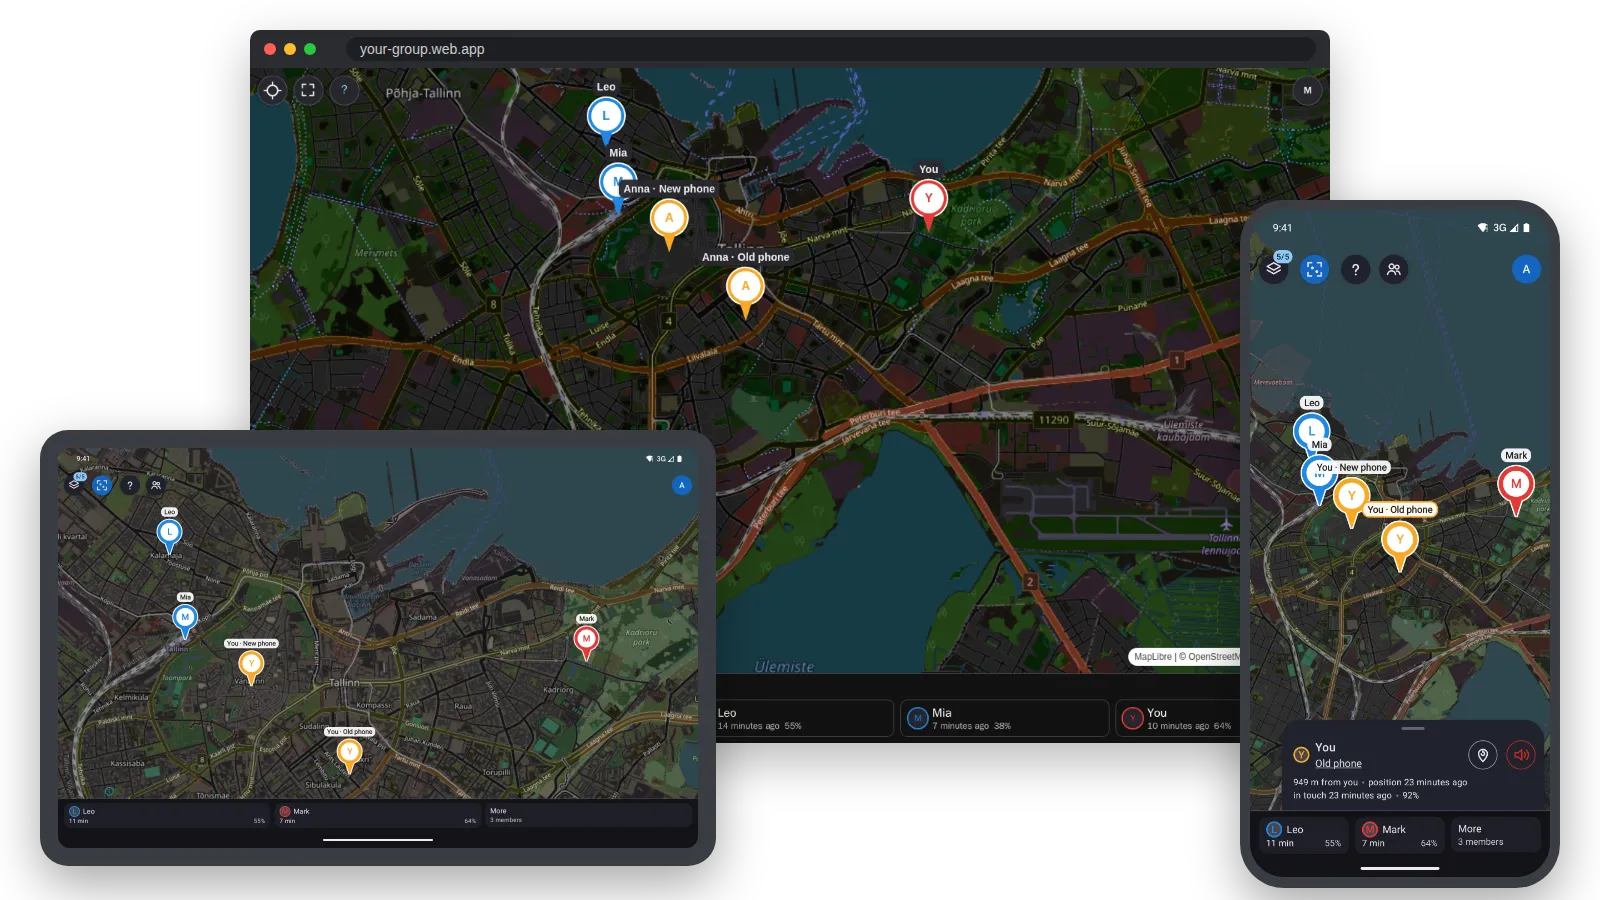
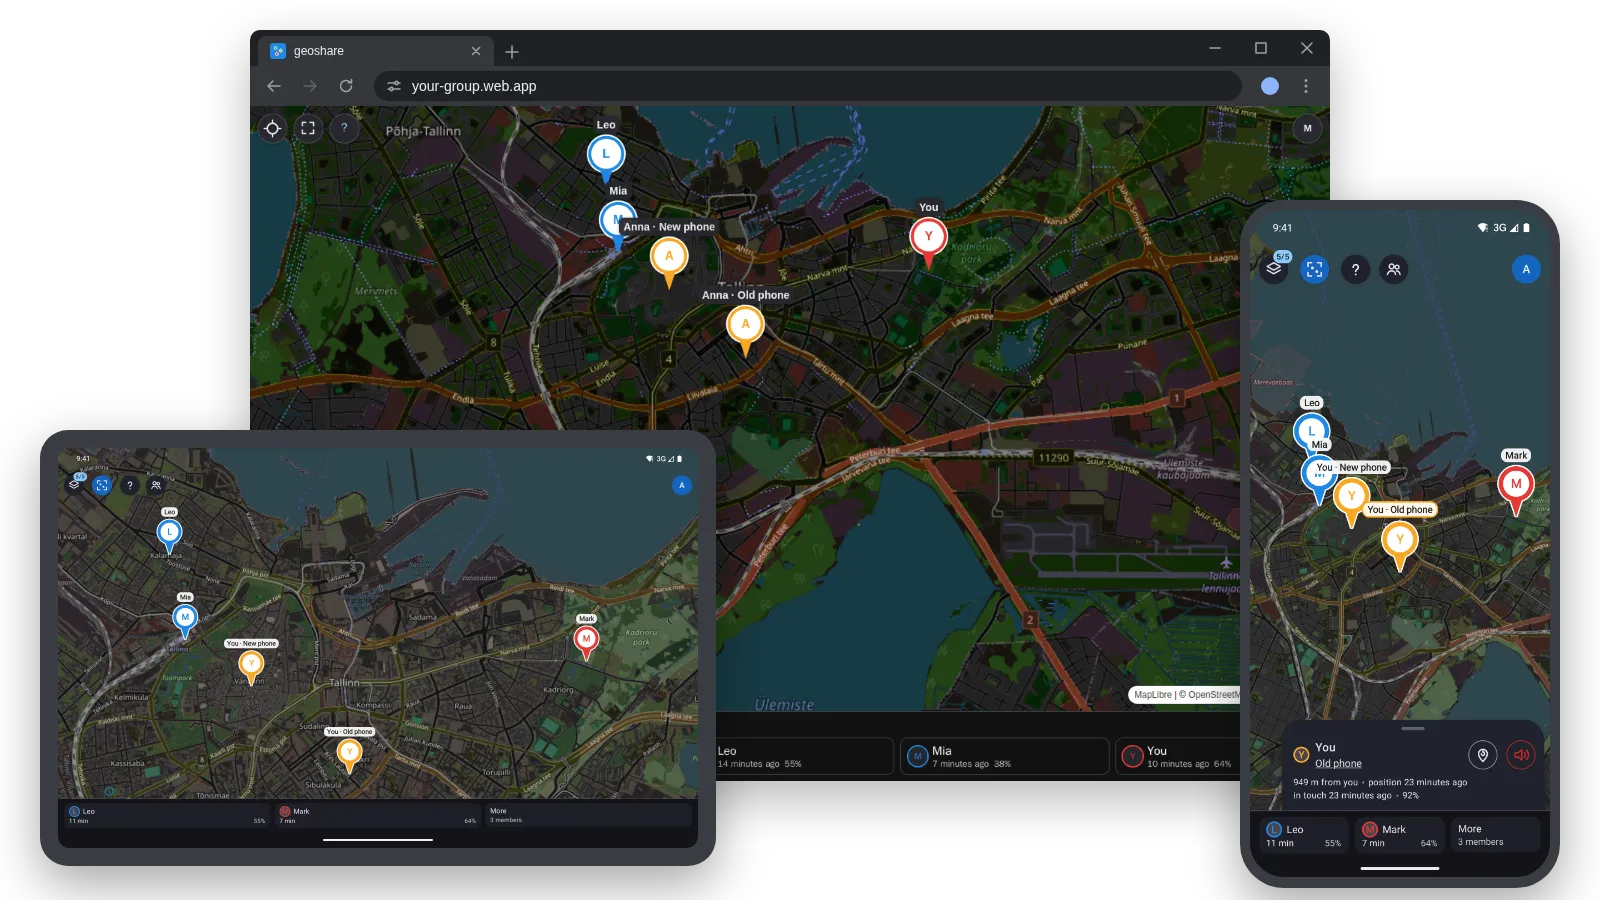
Hero: the browser window drawn as Google Chrome
The window at the back of the header picture carried the three coloured
buttons of a macOS title bar, which suggested an Apple platform the
project has not been tried on. It is now Chrome's frame: the tab strip with
the geoshare tab, the toolbar and the window buttons on the right.

Changed region(s): [[0.1562, 0.0311, 0.8438, 0.9022]]

diff --git a/tools/hero/hero.html b/tools/hero/hero.html
@@ -9,16 +9,25 @@
 <meta charset="utf-8">
 <title>hero</title>
 <style>
-  :root { --bar: #f1f1f4; --pill: #ffffff; --url: #444; --bezel: #202226; }
-  :root.dark { --bar: #2b2c31; --pill: #1d1e22; --url: #ccc; --bezel: #3a3d44; }
+  /* Google Chrome's frame: the tab strip, then the toolbar with the address field. */
+  :root { --strip: #dee1e6; --tab: #ffffff; --field: #f1f3f4; --text: #202124; --icon: #5f6368; --bezel: #202226; }
+  :root.dark { --strip: #202124; --tab: #35363a; --field: #202124; --text: #e8eaed; --icon: #9aa0a6; --bezel: #3a3d44; }
   html, body { margin: 0; background: transparent; }
   #stage { position: relative; width: 1600px; height: 900px; font-family: "Noto Sans", sans-serif; }
   .browser { position: absolute; left: 250px; top: 30px; width: 1080px; border-radius: 10px; overflow: hidden;
-             box-shadow: 0 18px 50px rgba(0,0,0,.28); background: var(--bar); }
-  .bar { height: 38px; display: flex; align-items: center; gap: 8px; padding: 0 14px; }
-  .dot { width: 12px; height: 12px; border-radius: 50%; }
-  .pill { margin-left: 22px; flex: 1; height: 24px; border-radius: 12px; background: var(--pill); color: var(--url);
-          font-size: 14px; display: flex; align-items: center; padding-left: 14px; }
+             box-shadow: 0 18px 50px rgba(0,0,0,.28); background: var(--strip); color: var(--text); }
+  .browser svg { display: block; flex: none; }
+  .strip { height: 36px; display: flex; align-items: flex-end; padding-left: 8px; }
+  .tab { width: 236px; height: 30px; box-sizing: border-box; display: flex; align-items: center; gap: 8px;
+         padding: 0 10px 0 12px; border-radius: 8px 8px 0 0; background: var(--tab); font-size: 12px; }
+  .tab span { flex: 1; }
+  .newtab { margin: 0 0 4px 8px; }
+  .window { margin-left: auto; align-self: stretch; display: flex; }
+  .window svg { width: 46px; height: 36px; }
+  .toolbar { height: 40px; display: flex; align-items: center; gap: 4px; padding: 0 8px; background: var(--tab); }
+  .toolbar > svg { margin: 0 6px; }
+  .field { flex: 1; height: 30px; margin: 0 8px; display: flex; align-items: center; gap: 10px; padding-left: 12px;
+           border-radius: 15px; background: var(--field); font-size: 14px; }
   .browser img { display: block; width: 1080px; height: 675px; }
   .tablet { position: absolute; left: 40px; top: 430px; width: 640px; height: 400px; padding: 18px;
             border-radius: 28px; background: var(--bezel); box-shadow: 0 18px 50px rgba(0,0,0,.35); }
@@ -30,9 +39,29 @@
 </style>
 <div id="stage">
   <div class="browser">
-    <div class="bar">
-      <span class="dot" style="background:#ff5f57"></span><span class="dot" style="background:#febc2e"></span><span class="dot" style="background:#28c840"></span>
-      <span class="pill">your-group.web.app</span>
+    <div class="strip">
+      <div class="tab">
+        <svg width="16" height="16" viewBox="0 0 108 108"><rect width="108" height="108" rx="20" fill="#1e88e5"/><g stroke="#fff" stroke-width="5"><circle cx="38" cy="34" r="10" fill="#43a047"/><circle cx="72" cy="52" r="10" fill="#f9a825"/><circle cx="46" cy="74" r="10" fill="#e53935"/></g></svg>
+        <span>geoshare</span>
+        <svg width="16" height="16" viewBox="0 0 16 16" stroke="var(--icon)" stroke-width="1.6" fill="none" stroke-linecap="round" stroke-linejoin="round"><path d="M4.5 4.5l7 7M11.5 4.5l-7 7"/></svg>
+      </div>
+      <svg class="newtab" width="20" height="20" viewBox="0 0 20 20" stroke="var(--icon)" stroke-width="1.6" fill="none" stroke-linecap="round" stroke-linejoin="round"><path d="M10 4v12M4 10h12"/></svg>
+      <div class="window">
+        <svg viewBox="0 0 46 36" stroke="var(--icon)" stroke-width="1.6" fill="none" stroke-linecap="round" stroke-linejoin="round"><path d="M18 18h10"/></svg>
+        <svg viewBox="0 0 46 36" stroke="var(--icon)" stroke-width="1.6" fill="none" stroke-linecap="round" stroke-linejoin="round"><rect x="18" y="13" width="10" height="10"/></svg>
+        <svg viewBox="0 0 46 36" stroke="var(--icon)" stroke-width="1.6" fill="none" stroke-linecap="round" stroke-linejoin="round"><path d="M18 13l10 10M28 13l-10 10"/></svg>
+      </div>
+    </div>
+    <div class="toolbar">
+      <svg width="20" height="20" viewBox="0 0 20 20" stroke="var(--icon)" stroke-width="1.6" fill="none" stroke-linecap="round" stroke-linejoin="round"><path d="M16 10H4M9 5l-5 5 5 5"/></svg>
+      <svg width="20" height="20" viewBox="0 0 20 20" stroke="var(--icon)" stroke-width="1.6" fill="none" stroke-linecap="round" stroke-linejoin="round" stroke-opacity="0.45"><path d="M4 10h12M11 5l5 5-5 5"/></svg>
+      <svg width="20" height="20" viewBox="0 0 20 20" stroke="var(--icon)" stroke-width="1.6" fill="none" stroke-linecap="round" stroke-linejoin="round"><path d="M15.5 10a5.5 5.5 0 1 1-1.6-3.9M15.5 3.5v3.2h-3.2"/></svg>
+      <div class="field">
+        <svg width="16" height="16" viewBox="0 0 16 16" stroke="var(--icon)" stroke-width="1.6" fill="none" stroke-linecap="round" stroke-linejoin="round"><path d="M2 5h7M12 5h2M2 11h2M7 11h7"/><circle cx="10.5" cy="5" r="1.6"/><circle cx="5.5" cy="11" r="1.6"/></svg>
+        your-group.web.app
+      </div>
+      <svg width="20" height="20" viewBox="0 0 20 20"><circle cx="10" cy="10" r="9" fill="#8ab4f8"/></svg>
+      <svg width="20" height="20" viewBox="0 0 20 20" fill="var(--icon)"><circle cx="10" cy="4.5" r="1.5"/><circle cx="10" cy="10" r="1.5"/><circle cx="10" cy="15.5" r="1.5"/></svg>
     </div>
     <img id="page" alt="">
   </div>
